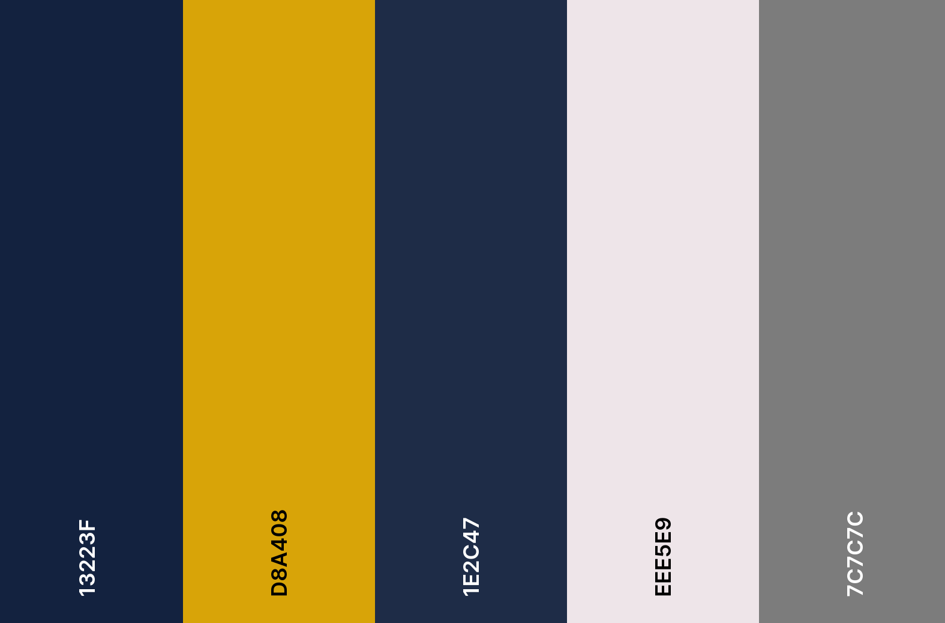
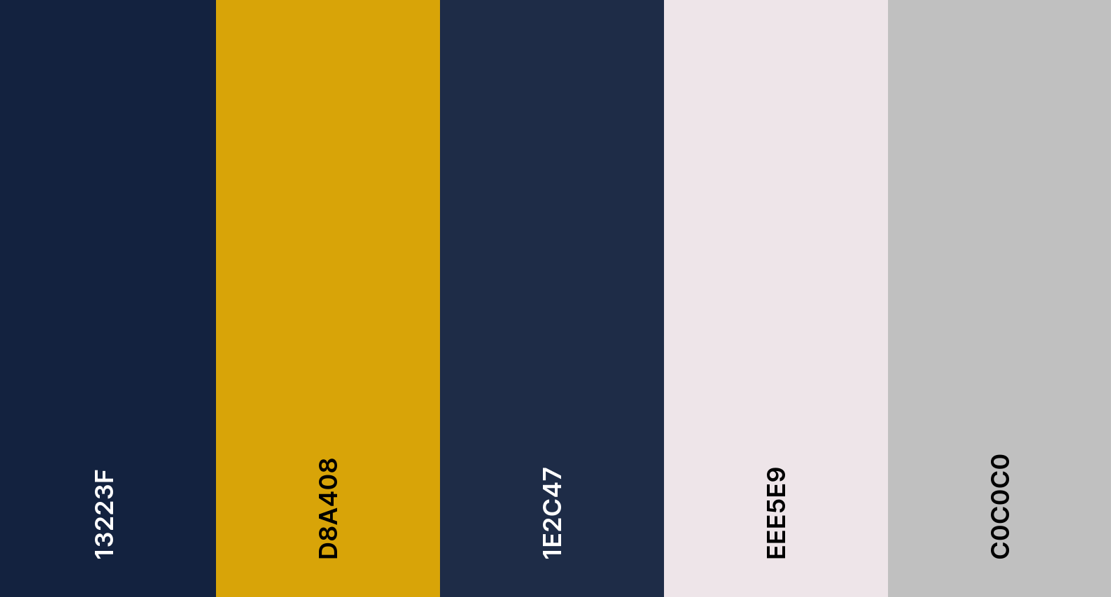
update color scheme to README

diff --git a/README.md b/README.md
@@ -51,7 +51,7 @@ The Empire Strikes Bach musical quiz app is essential for creating an engaging, 
 ### Colour Scheme
 We've used CSS for the colours and used colours from the original strike Bach App to make it feel authentic.
 
-we've used [coolors.co](https://coolors.co/13223f-d8a408-1e2c47-eee5e9-7c7c7c) to generate our colour palette.
+we've used [coolors.co](https://coolors.co/13223f-d8a408-1e2c47-eee5e9-c0c0c0) to generate our colour palette.
 
 ![Color Design](assets/images/color-design.png)
 
